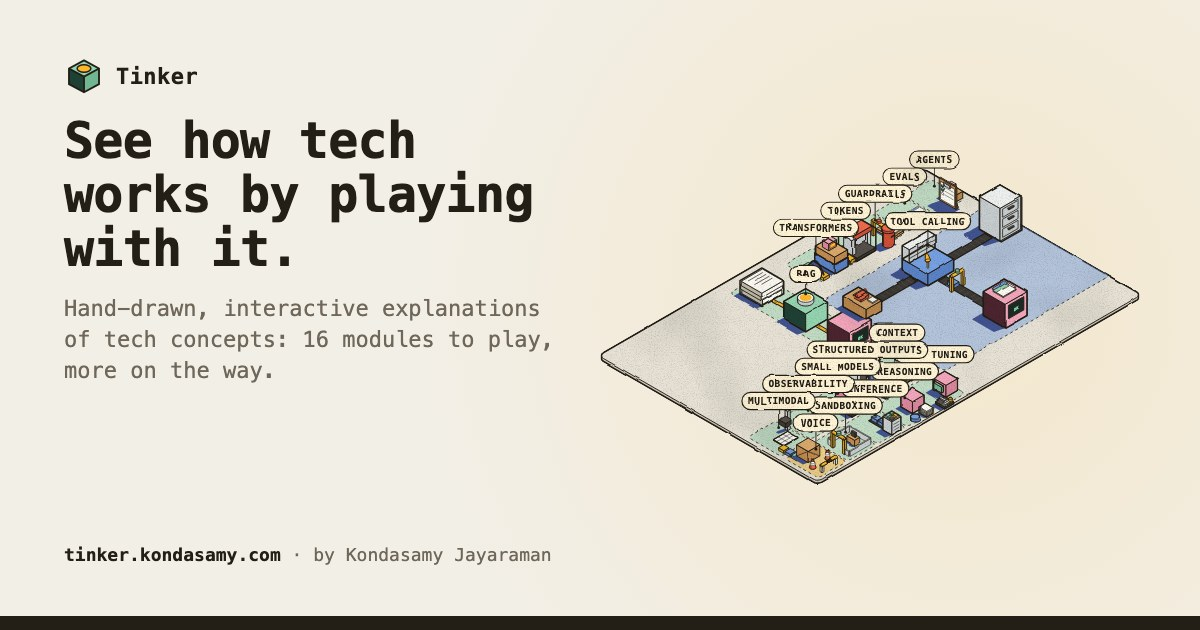
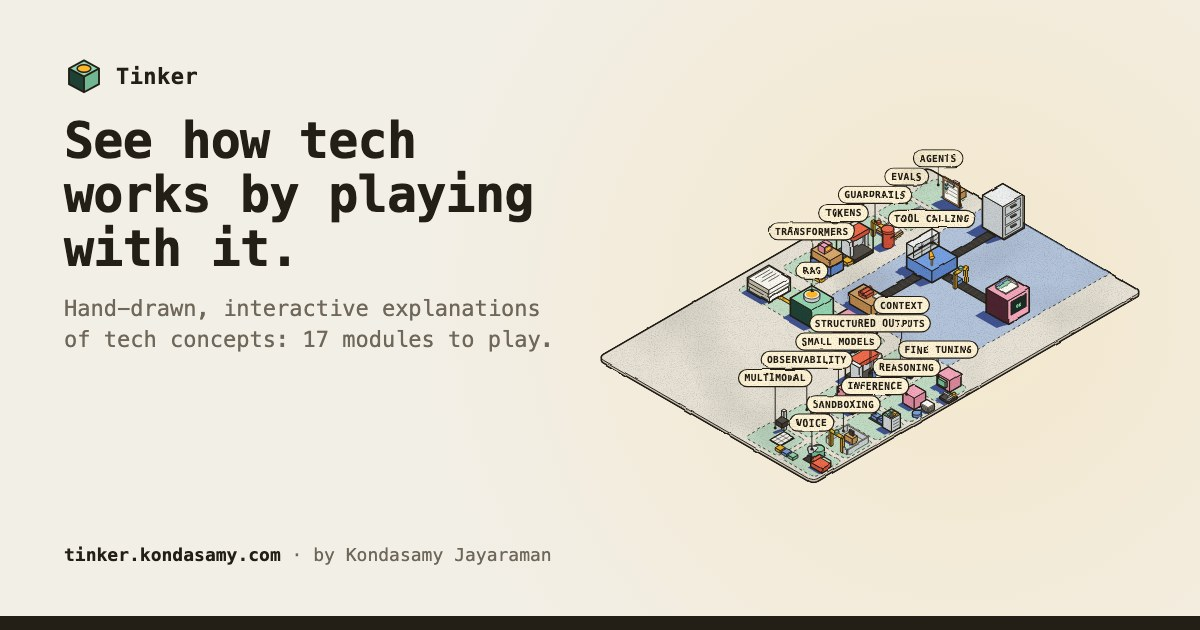
fix(home): no two hero pills overlap when every pill shows
With reduced motion and in the home share image every pill shows at once, and the front rows' pills covered their
neighbours. Slots now sit a little more than two pill heights apart on screen (STEP 46 → 50), and a row's left-hand
pill floats higher, clear of its right-hand neighbour and the next row's. A unit test checks the real registry's
pill boxes never overlap. The home share image is regenerated (it also gains voice's plot).

diff --git a/src/components/scenes/heroScene.ts b/src/components/scenes/heroScene.ts
@@ -27,7 +27,8 @@ import type { Msg } from '../../lib/iso/flat';
 
 // the back office at the back; RAG along the front-left edge; plots in the ground the two leave empty
 const RAG_Y = 294, RAG_X = [44, 112, 180];
-const COLUMN = 5, STEP = 46;
+// STEP is a little more than two pill heights apart on screen, so pills down a column or a diagonal never touch
+const COLUMN = 5, STEP = 50;
 /** slot i's centre: down the column left of the back office, then two to a row right of RAG, row by row to the front */
 const slotXY = (i: number): [number, number] => i < COLUMN ? [44, 30 + STEP * i] : [248 + 58 * ((i - COLUMN) % 2), 292 + STEP * Math.floor((i - COLUMN) / 2)];
 /** slot i's mat on the board, [x0, y0, x1, y1] */
@@ -83,10 +84,13 @@ export const heroScene = ({ live, planned, ride }: { live: HeroPlot[]; planned: 
   const pill = (p: number[], text: string, onn: boolean, dy = -20, dx = 0) => `<g class="block-tag" aria-hidden="true" pointer-events="none">${tag(p, dx, dy, esc(text.toUpperCase()), onn, scale)}</g>`;
   // a pill floats above its plot's centre: on the home page only one shows at a time, so they never crowd
   const at = (i: number) => { const [x, y] = slotXY(i); return [x + 4, y, BH + 15]; };
+  // a row's left-hand pill floats higher: its right-hand neighbour and the next row's left-hand one sit at about its
+  // height on screen, and all show at once with reduced motion and in the share image
+  const lift = (i: number) => i >= COLUMN && (i - COLUMN) % 2 === 0 ? -21 : 0;
   return s + hop(0, pill([RAG_X[1], RAG_Y, BH + 34], live[0].name, false, -18)) + hop(1, pill([142, 134, BH + 34], live[1].name, false, -22))
-    + later.map((m, i) => hop(i + 2, pill(at(i), m.name, false, -24))).join('')
+    + later.map((m, i) => hop(i + 2, pill(at(i), m.name, false, -24 + lift(i)))).join('')
     // planned pills sit out the wave (its timing is per live plot): the animated home hides them, still pictures show them all
-    + planned.map((m, j) => `<g class="hero-soon">${pill(at(later.length + j), m.name, false, -24)}</g>`).join('');
+    + planned.map((m, j) => `<g class="hero-soon">${pill(at(later.length + j), m.name, false, -24 + lift(later.length + j))}</g>`).join('');
 };
 
 /** later live modules' plots, by module id: agents is a small desk with its plan on a clipboard; evals a stack of graded test cards and a stamp;

diff --git a/tests/unit/hero.test.ts b/tests/unit/hero.test.ts
@@ -84,4 +84,13 @@ describe('home hero', () => {
     expect(rest).not.toMatch(/>[AB]</);
     expect(rest).toContain('class="hero-hop"');
   });
+
+  // reduced motion and the share image show every pill at once: none may cover another
+  it('no two pills overlap with every pill shown, for the real registry', () => {
+    const boxes = [...draw().matchAll(/<g class="block-tag"[^>]*><g class="tag[^"]*">.*?<rect x="([\d.-]+)" y="([\d.-]+)" width="([\d.]+)" height="([\d.]+)".*?>([^<]+)<\/text>/g)]
+      .map(([, x, y, w, h, name]) => ({ name, x0: +x, y0: +y, x1: +x + +w, y1: +y + +h }));
+    expect(boxes).toHaveLength(MODULES.length);
+    const hits = boxes.flatMap((a, i) => boxes.slice(i + 1).filter(b => a.x0 < b.x1 && b.x0 < a.x1 && a.y0 < b.y1 && b.y0 < a.y1).map(b => `${a.name} × ${b.name}`));
+    expect(hits).toEqual([]);
+  });
 });

diff --git a/AGENTS.md b/AGENTS.md
@@ -73,7 +73,7 @@ Marketing pages share `src/styles/page.css` (buttons, kickers, chips, top bar, c
 - **3D view (RAG canvas only):** turn buttons, drag-to-orbit, zoom (buttons, pinch) and pan when zoomed. Part turns are fitted inside the whole-turn frame so the page never resizes. Labels and front-mounted parts move to the faces toward the viewer. The chapter 1–2 scenes keep the fixed front view (their glass drawing assumes it).
 - A "See inside" (x-ray glass blocks) mode was built and **rejected**; don't bring it back.
 - **Flat figures** (lanes, message cards, arrows, stamps) live in `src/lib/iso/flat.ts` beside the engine, reusing its ink, palette and wobble; `core.js` stays untouched. `FlatStage` mirrors `IsoStage`. Use them for flows over time; isometric blocks show sequences poorly.
-- **The home hero is the workshop** (`src/components/scenes/heroScene.ts`): one board, a plot per module from the registry. RAG's pipeline and tool calling's back office are live plots, then agents' desk with its clipboard and evals' stack of graded test cards with a rubber stamp (`testStack`), guardrails' inbox tray, screening arch and post box, tokens' squat token press with three tiles (`pressPlot`), transformers' small engine room, a head's desk lit over three tiles joined by a thread (`enginePlot`), context's small desk with the window on it, a glass case of stacked papers (`deskPlot`), fine-tuning's small training bench, the model with its adapter clipped on and the weights lever pulled (`benchPlot`), structured outputs' small press, its short belt crossing a blue schema plate, a tomato tile stopped before the plate and two tiles past it (`stencilPlot`), reasoning's small scratchpad desk, a squat model, a pad of thinking papers and a small effort dial (`deskPadPlot`), and small models' small apprentice's bench, a model block, a squat student in front of it and the router's plate, its lever leaning toward the student (`apprenticePlot`), and inference's small server rack, three of its four seats lit, beside a short queue belt with two envelopes waiting (`servePlot`), observability's short wall of three trace cards, one failed, over a sorting bin (`controlRoomPlot`), and sandboxing's small walled yard, the agent's desk inside and a gated door in its front wall, its lamp lit (`glassRoomPlot`), multimodal's small scanning table, a sheet with its patch grid under a camera post and three token tiles (`scanPlot`), and voice's small phone desk, a squat telephone and a mint ear drum on a short belt (`phonePlot`). There are no building sites now: every module is live, and the caption invites proposals ("Room for more"). The planned path stays: a planned module would be a building site (crate, cones, barrier) whose pill names it by id alone and sits out the wave (`.hero-soon`, hidden in the animated home, shown with reduced motion and in the share image), and `tests/unit/hero.test.ts` keeps it tested with a fixture. Plots after the first two fill the ground the pipeline and the back office leave empty: a column of five left of the back office, then two to a row right of RAG, row by row to the front. Pills are plain, short (the module id, a planned one too) and float above their plot. The board grows with the registry, so a new module needs no hand-placed art. On the home page the hero is animated (CSS in `index.astro`; none with reduced motion, which shows every pill): the envelope rides its belt, RAG's wire carries a current, and a wave hops each live plot (`hop()`, `.hero-hop`, `--i`) and shows its pill, lit, only for its turn, so the board rests unlabelled; the press drops its tiles and the clipboard ticks its plan. The share image draws the same SVG still, every pill shown.
+- **The home hero is the workshop** (`src/components/scenes/heroScene.ts`): one board, a plot per module from the registry. RAG's pipeline and tool calling's back office are live plots, then agents' desk with its clipboard and evals' stack of graded test cards with a rubber stamp (`testStack`), guardrails' inbox tray, screening arch and post box, tokens' squat token press with three tiles (`pressPlot`), transformers' small engine room, a head's desk lit over three tiles joined by a thread (`enginePlot`), context's small desk with the window on it, a glass case of stacked papers (`deskPlot`), fine-tuning's small training bench, the model with its adapter clipped on and the weights lever pulled (`benchPlot`), structured outputs' small press, its short belt crossing a blue schema plate, a tomato tile stopped before the plate and two tiles past it (`stencilPlot`), reasoning's small scratchpad desk, a squat model, a pad of thinking papers and a small effort dial (`deskPadPlot`), and small models' small apprentice's bench, a model block, a squat student in front of it and the router's plate, its lever leaning toward the student (`apprenticePlot`), and inference's small server rack, three of its four seats lit, beside a short queue belt with two envelopes waiting (`servePlot`), observability's short wall of three trace cards, one failed, over a sorting bin (`controlRoomPlot`), and sandboxing's small walled yard, the agent's desk inside and a gated door in its front wall, its lamp lit (`glassRoomPlot`), multimodal's small scanning table, a sheet with its patch grid under a camera post and three token tiles (`scanPlot`), and voice's small phone desk, a squat telephone and a mint ear drum on a short belt (`phonePlot`). There are no building sites now: every module is live, and the caption invites proposals ("Room for more"). The planned path stays: a planned module would be a building site (crate, cones, barrier) whose pill names it by id alone and sits out the wave (`.hero-soon`, hidden in the animated home, shown with reduced motion and in the share image), and `tests/unit/hero.test.ts` keeps it tested with a fixture. Plots after the first two fill the ground the pipeline and the back office leave empty: a column of five left of the back office, then two to a row right of RAG, row by row to the front. Pills are plain, short (the module id, a planned one too) and float above their plot; a row's left-hand pill floats higher (`lift`), and slots sit a little more than two pill heights apart on screen, so no two pills overlap when all show (`hero.test.ts` checks the real registry). The board grows with the registry, so a new module needs no hand-placed art. On the home page the hero is animated (CSS in `index.astro`; none with reduced motion, which shows every pill): the envelope rides its belt, RAG's wire carries a current, and a wave hops each live plot (`hop()`, `.hero-hop`, `--i`) and shows its pill, lit, only for its turn, so the board rests unlabelled; the press drops its tiles and the clipboard ticks its plan. The share image draws the same SVG still, every pill shown.
 - **Lead with a scene, not a diagram.** Tool calling's chapters 1–4 and 6 (and its intro hero and home card) open on the **back office** (`src/components/scenes/officeScene.ts`): an isometric diorama of the employee's desk, the host's sorting desk, the model and the order system's filing cabinet, joined by conveyor belts. The message being sent rides its belt as an envelope coloured by kind; checks stand on the belts (schema arch, ownership arch, approval barrier); a drawer slides out when the orders are read; a planted note pokes out of an envelope. It is driven by the same transcript as the sequence, so the two never disagree. Only stamps ride in the drawing; the message's words go in the caption under it (`ToolStage` in `src/content/tool-calling/kit.tsx`).
 - **The agents scene** (`src/components/scenes/agentScene.ts`) composes `officeScene` and adds four props, each turned on by the chapter: a clipboard by the model (the plan, a tick per finished item), a step and context gauge on the host desk, an in-tray of history papers that becomes one binder when the host compacts, and small helper desks for sub-agents. On phones the props' readout pills are left out and the caption carries the readouts; only the helper count pill stays.
 - **The evals bench** (`src/components/scenes/evalScene.ts`) composes RAG's `miniPipeline`: a stack of test cards rides a belt into the pipeline, and the answers go to a grader's desk where cards pile up PASS and FAIL, with a scoreboard pill. `EvalStage` (`src/content/evals/kit.tsx`) puts it one tab from the Results grid (`evalGrid.ts`, a column per version, flipped cells marked). Chapter 5 grades a Tool calling run, so its stage is Tool calling's `ToolStage` and ledger. Chapter 7 keeps its tab in the step state.
